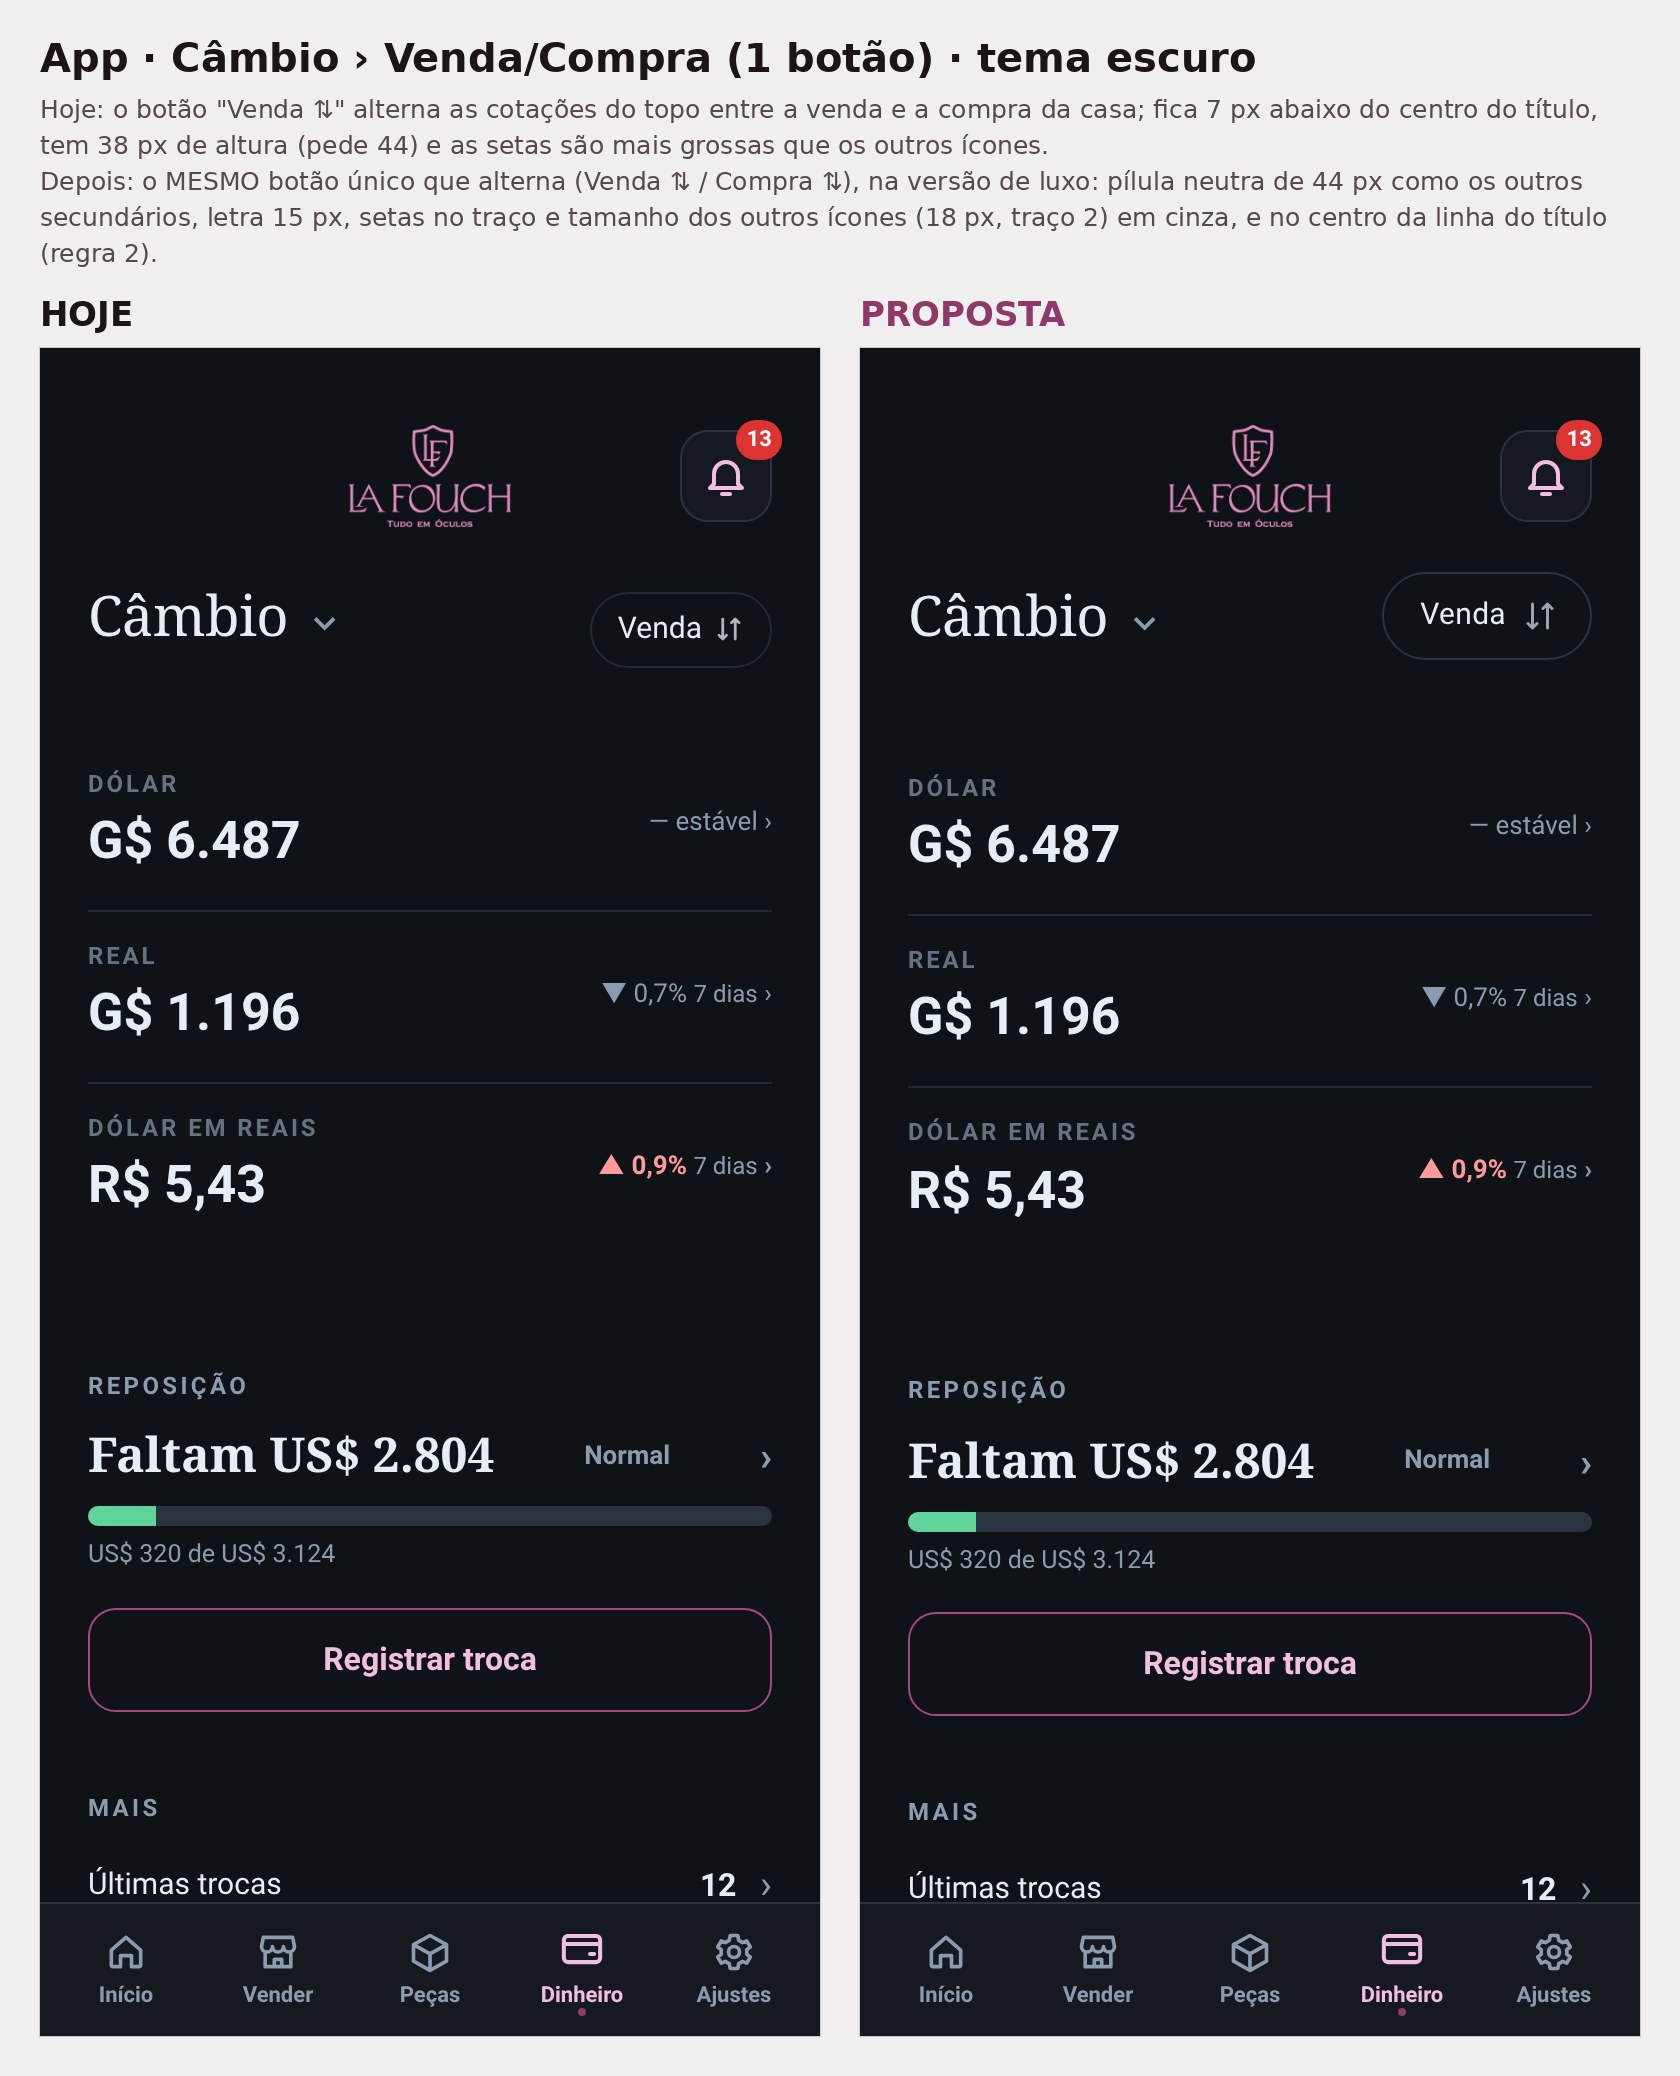
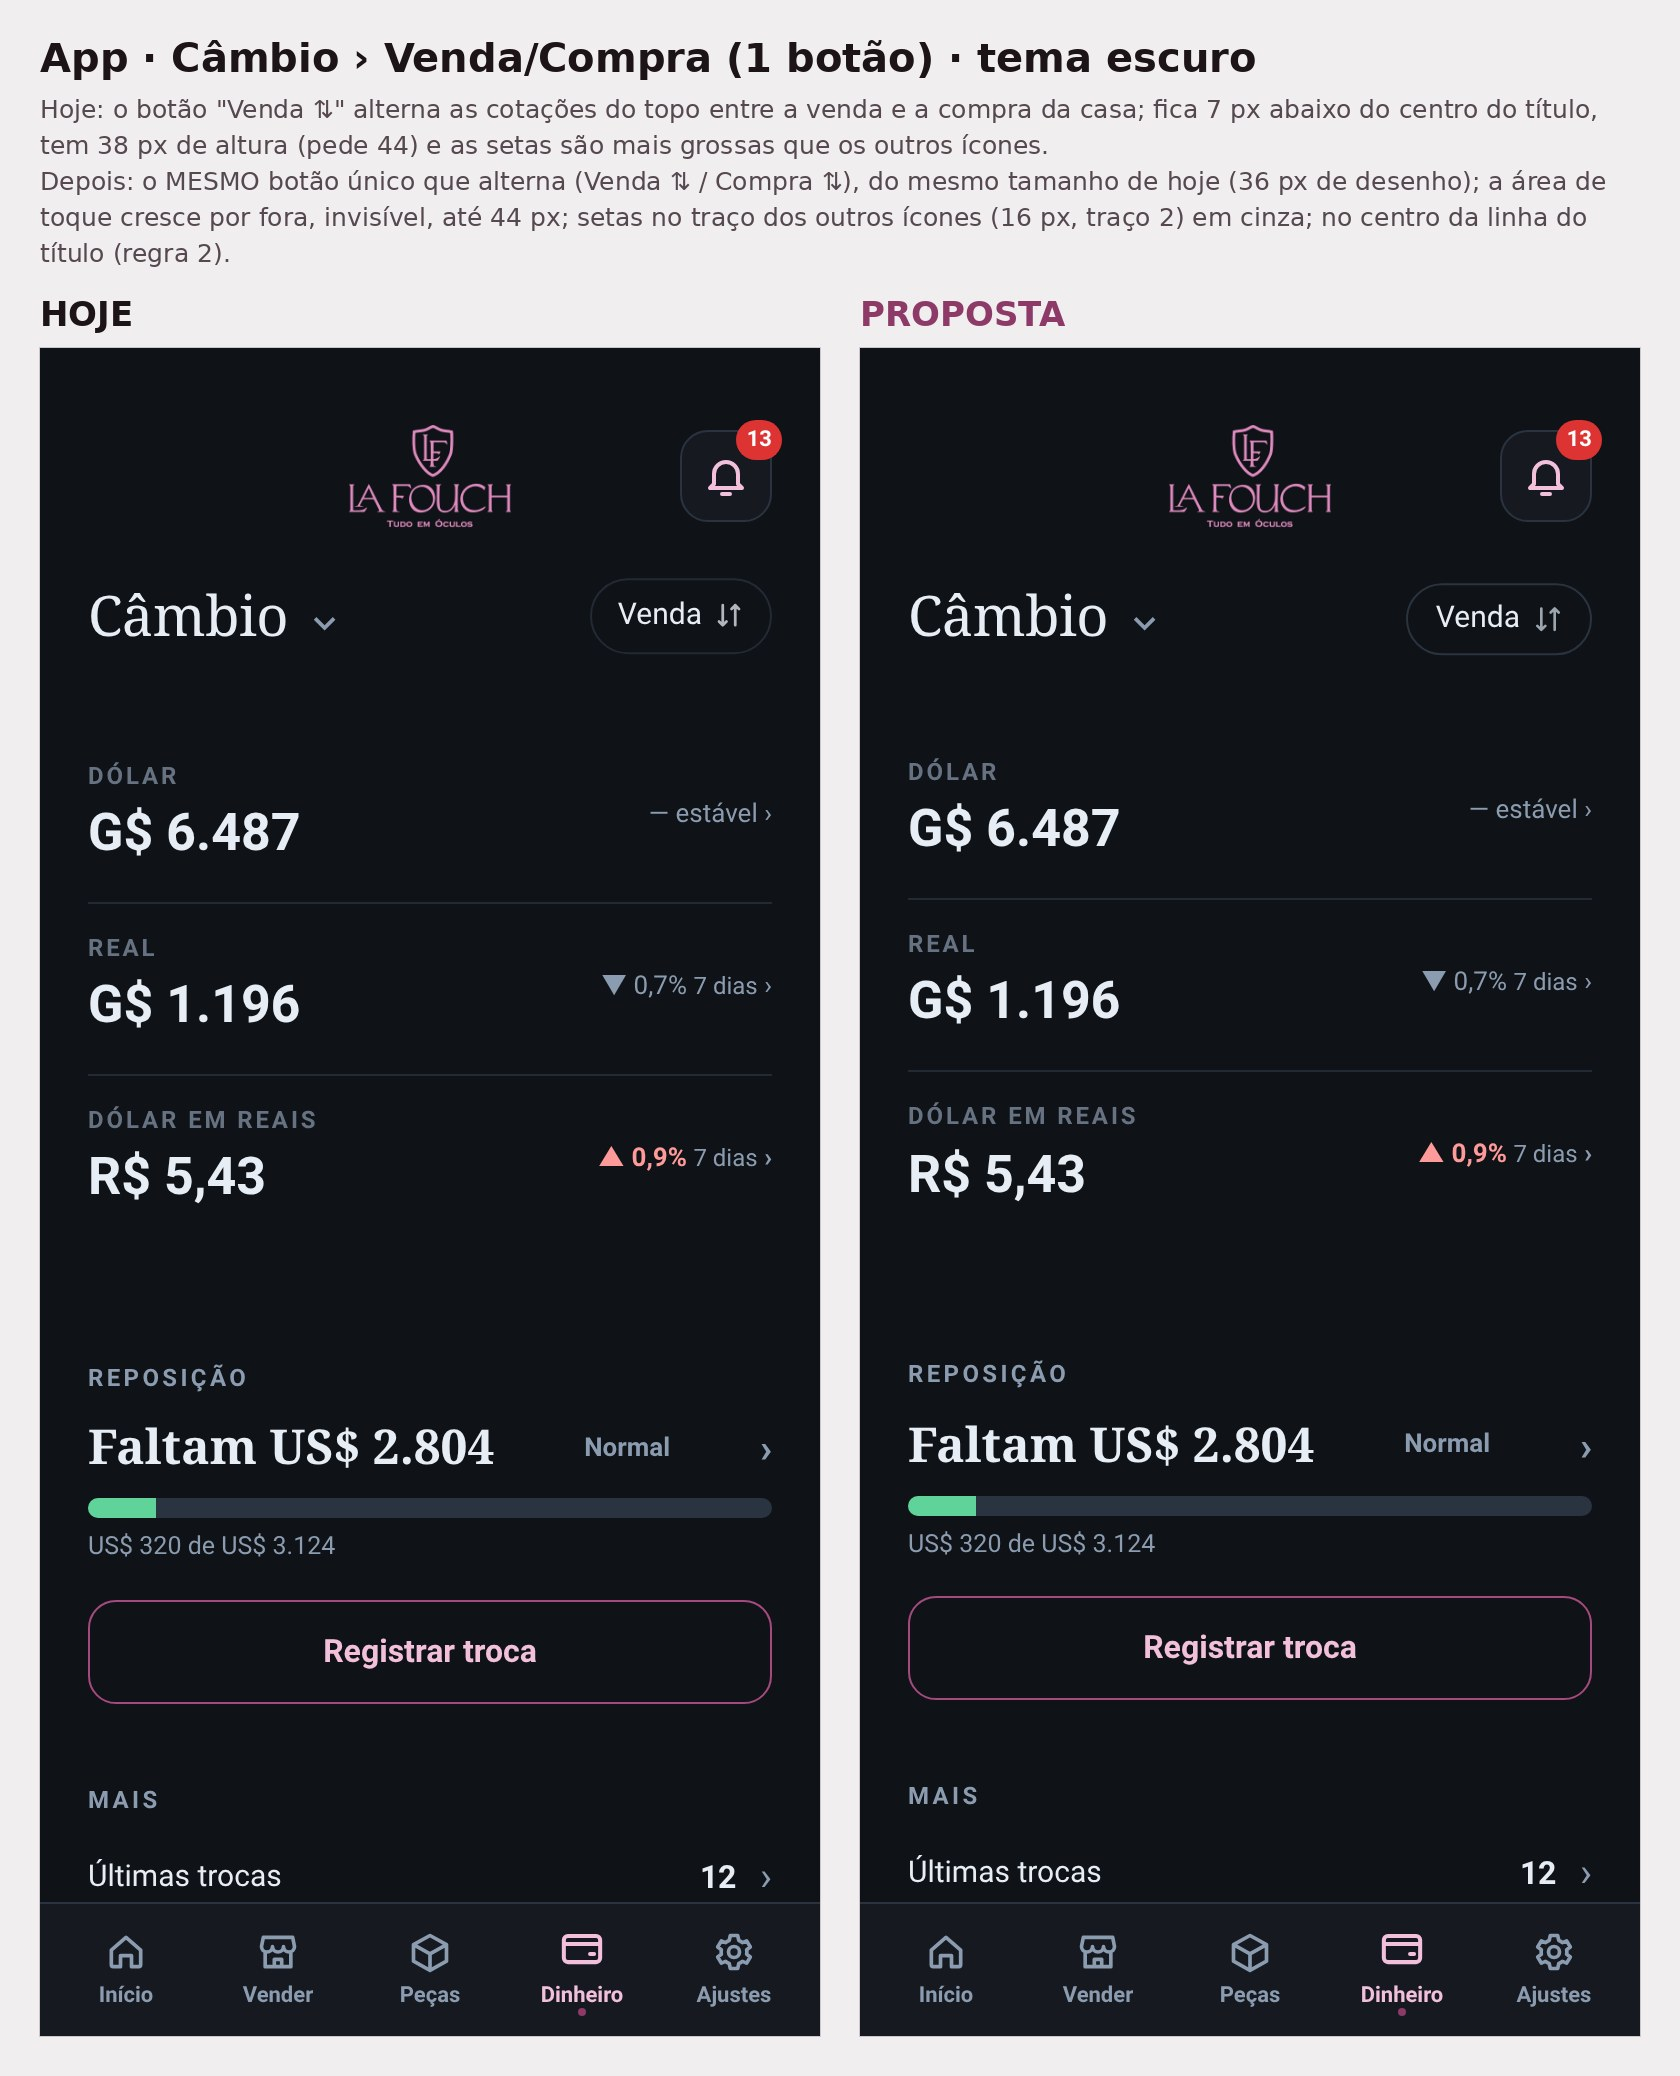
S425: 135i — botão do tamanho de hoje, toque por fora
Claude-Session: https://claude.ai/code/session_01Vj5GPRt4UBskC3w8v52h7G

diff --git a/work/s425/esb135.py b/work/s425/esb135.py
@@ -51,10 +51,10 @@ CASOS=[
   'Hoje: números do resumo na letra de título (serifada); "Black Friday em 1 dias".',
   'Depois: números na letra do texto, como no Dashboard (T); "Black Friday em 1 dia" (W).'),
  ('i','cambio','Câmbio › Venda/Compra (1 botão)',["()=>{const S=__LF.S;S.lm={usd:{v:6487,c:6420},brl:{v:1196,c:1180},eur:{v:7100,c:7000},arb:{v:5.43,c:5.38},ts:Date.now(),hora:'15:00',fonte:'Sucursal Jebai'};__LF.setView('inicio');__LF.setView('fx');return 1}"],
-  '#v-fx .fxModo{min-height:44px!important;height:44px!important;padding:0 16px 0 18px!important;margin:0!important;gap:8px!important;border:1px solid var(--line)!important;font:600 15px/1 inherit!important;letter-spacing:.01em}#v-fx .fxModo svg{width:18px!important;height:18px!important;stroke-width:2!important;color:var(--sub)}#v-fx .fxTopo{align-items:flex-start!important}',
+  '#v-fx .fxModo{position:relative;min-height:0!important;height:36px!important;padding:0 13px 0 14px!important;margin:0!important;gap:6px!important;border:1px solid var(--line)!important;font:600 14px/1 inherit!important}#v-fx .fxModo::after{content:"";position:absolute;inset:-4px -2px}#v-fx .fxModo svg{width:16px!important;height:16px!important;stroke-width:2!important;color:var(--sub)}#v-fx .fxTopo{align-items:flex-start!important}',
   ['''()=>{const b=document.querySelector('#v-fx .fxModo');const h=document.querySelector('#v-fx h1');if(!b||!h)return;b.style.transform='none';const r=document.createRange();r.selectNodeContents(h);const q=[...r.getClientRects()][0];const bq=b.getBoundingClientRect();b.style.transform='translateY('+(((q.top+q.bottom)/2)-((bq.top+bq.bottom)/2)).toFixed(1)+'px)'}'''],
   'Hoje: o botão "Venda ⇅" alterna as cotações do topo entre a venda e a compra da casa; fica 7 px abaixo do centro do título, tem 38 px de altura (pede 44) e as setas são mais grossas que os outros ícones.',
-  'Depois: o MESMO botão único que alterna (Venda ⇅ / Compra ⇅), na versão de luxo: pílula neutra de 44 px como os outros secundários, letra 15 px, setas no traço e tamanho dos outros ícones (18 px, traço 2) em cinza, e no centro da linha do título (regra 2).'),
+  'Depois: o MESMO botão único que alterna (Venda ⇅ / Compra ⇅), do mesmo tamanho de hoje (36 px de desenho); a área de toque cresce por fora, invisível, até 44 px; setas no traço dos outros ícones (16 px, traço 2) em cinza; no centro da linha do título (regra 2).'),
 ]
 with sync_playwright() as pw:
   for k,nome,tit,ps,css,js,h,p in [c for c in CASOS if c[0] in (os.environ.get('SO') or 'abcdefghi')]:

diff --git a/docs/FALTA-APROVAR-15-11.md b/docs/FALTA-APROVAR-15-11.md
@@ -631,3 +631,4 @@ Não são esquecimento (estavam na lista, parados de propósito ou por ordem do 
 - 18/11 17:46 — DONO: "Sim" → S428 PEÇA opção B APROVADA, esperando 'implementar' (work/s428/prop_peca_b.js: topo só '‹ Categoria'; caminho completo pequeno no fim da peça, antes do rodapé, quebra linha). Entra na base dos próximos esboços.
 - 18/11 17:47 — DONO: "Perfeito" → **APROVADO**: "›" = sai daqui (outra tela ou janela de baixo); "⌄" = abre no lugar (CLAUDE.md). Câmbio e Guardião ficam com "›"; Ver peças, Carregar mais 30 dias, como calcula, ver os 14 e Ver todos os movimentos passam a "⌄" (entrou na base: item "links"). Esperando "implementar". 135 ainda esperando aprovação.
 - 18/11 17:50 — DONO: "Sim" → **ESBOÇOS 135a–135h APROVADOS** (Despesas, Caixa › Objetivos/aviso/Movimentos, Atacado, Giro, Retirada, Registrar troca, Pendências, Preços). Só guardados, esperando "implementar"; entraram na BASE (work/kit/base_app.py, itens 135a…135h, com escopo por tela). 135i: dono prefere o botão ÚNICO que alterna (Venda ⇅/Compra ⇅) → exceção ao P4 neste caso; feita a versão de luxo (pílula neutra 44 px, letra 15 px, setas 18 px traço 2 em cinza, no centro do título), ESPERANDO aprovação.
+- 18/11 18:00 — DONO: "pq o botão ficou gigante?" → ERRO MEU: usei os 44 px no DESENHO. LIÇÃO: a regra 11 (44 px) é ÁREA DE TOQUE; o desenho fica do tamanho certo e o toque cresce por fora, invisível (regra 5). 135i refeito: botão de 36 px como hoje, toque de 44 px, setas 16 px traço 2 em cinza, no centro do título. Esperando aprovação.

diff --git a/docs/MEMORIA-PROJETO.md b/docs/MEMORIA-PROJETO.md
@@ -3116,3 +3116,4 @@ Testar TUDO, com muita calma, antes de dizer que está pronto ou de publicar: ca
 - 18/11 17:46 — APROVADO (não implementado): peça opção B (jeito Apple) — topo só '‹ Armações', caminho no fim da página. Base de esboço: work/s428/base_site.js + prop_peca_b.js.
 - 18/11 17:47 — DONO: "Perfeito" → **APROVADO**: "›" = sai daqui (outra tela ou janela de baixo); "⌄" = abre no lugar (CLAUDE.md). Câmbio e Guardião ficam com "›"; Ver peças, Carregar mais 30 dias, como calcula, ver os 14 e Ver todos os movimentos passam a "⌄" (entrou na base: item "links"). Esperando "implementar". 135 ainda esperando aprovação.
 - 18/11 17:50 — DONO: "Sim" → **ESBOÇOS 135a–135h APROVADOS** (Despesas, Caixa › Objetivos/aviso/Movimentos, Atacado, Giro, Retirada, Registrar troca, Pendências, Preços). Só guardados, esperando "implementar"; entraram na BASE (work/kit/base_app.py, itens 135a…135h, com escopo por tela). 135i: dono prefere o botão ÚNICO que alterna (Venda ⇅/Compra ⇅) → exceção ao P4 neste caso; feita a versão de luxo (pílula neutra 44 px, letra 15 px, setas 18 px traço 2 em cinza, no centro do título), ESPERANDO aprovação.
+- 18/11 18:00 — DONO: "pq o botão ficou gigante?" → ERRO MEU: usei os 44 px no DESENHO. LIÇÃO: a regra 11 (44 px) é ÁREA DE TOQUE; o desenho fica do tamanho certo e o toque cresce por fora, invisível (regra 5). 135i refeito: botão de 36 px como hoje, toque de 44 px, setas 16 px traço 2 em cinza, no centro do título. Esperando aprovação.
